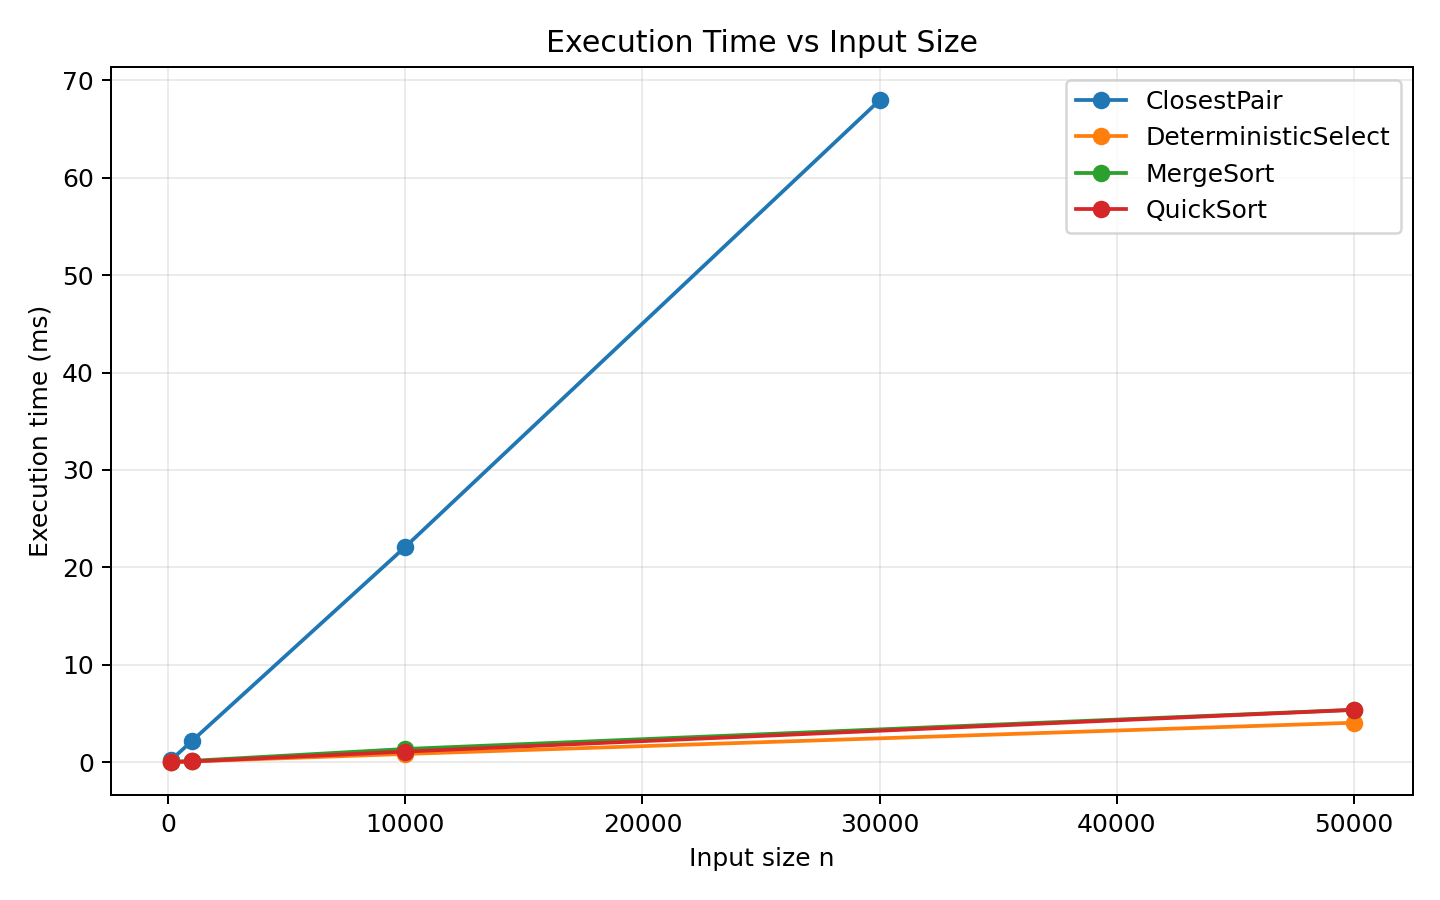
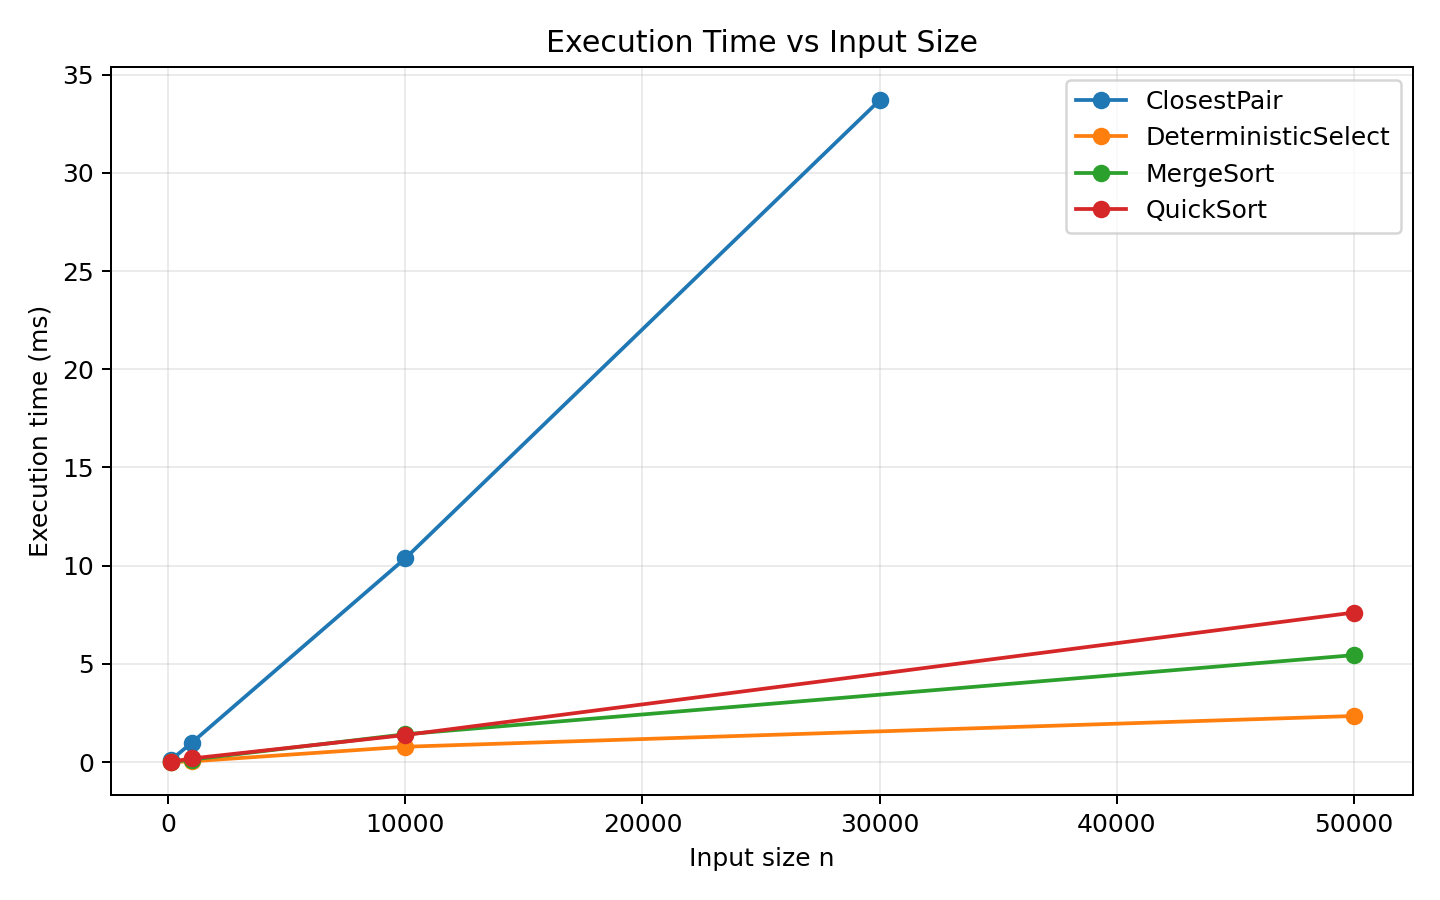
fix: simplify metrics and cover closest edge cases

diff --git a/src/main/java/kz/aitu/daa/assignment1/DeterministicSelector.java b/src/main/java/kz/aitu/daa/assignment1/DeterministicSelector.java
@@ -28,7 +28,7 @@ public final class DeterministicSelector {
         if (left == right) return a[left];
 
         int pivot = medianOfMedians(a, left, right, depth + 1, bounds, metrics);
-        ArrayTools.partition(a, left, right, pivot, bounds, metrics);
+        ArrayTools.partition(a, left, right, pivot, bounds);
         int less = bounds[0], greater = bounds[1];
         if (k < less) return select(a, left, less - 1, k, depth + 1, bounds, metrics);
         if (k > greater) return select(a, greater + 1, right, k, depth + 1, bounds, metrics);
@@ -39,14 +39,14 @@ public final class DeterministicSelector {
                                        int[] bounds, AlgorithmMetrics metrics) {
         int size = right - left + 1;
         if (size <= 5) {
-            ArrayTools.insertionSort(a, left, right, metrics);
+            ArrayTools.insertionSort(a, left, right);
             return a[left + size / 2];
         }
 
         int count = 0;
         for (int start = left; start <= right; start += 5) {
             int end = Math.min(start + 4, right);
-            ArrayTools.insertionSort(a, start, end, metrics);
+            ArrayTools.insertionSort(a, start, end);
             ArrayTools.swap(a, left + count++, (start + end) / 2);
         }
         int middle = left + count / 2;

diff --git a/src/main/java/kz/aitu/daa/assignment1/ArrayTools.java b/src/main/java/kz/aitu/daa/assignment1/ArrayTools.java
@@ -4,15 +4,12 @@ package kz.aitu.daa.assignment1;
 final class ArrayTools {
     private ArrayTools() {}
 
-    static void partition(int[] a, int left, int right, int pivot,
-                          int[] bounds, AlgorithmMetrics metrics) {
+    static void partition(int[] a, int left, int right, int pivot, int[] bounds) {
         int less = left, i = left, greater = right;
         while (i <= greater) {
-            metrics.comparison();
             if (a[i] < pivot) {
                 swap(a, less++, i++);
             } else {
-                metrics.comparison();
                 if (a[i] > pivot) swap(a, i, greater--);
                 else i++;
             }
@@ -21,11 +18,10 @@ final class ArrayTools {
         bounds[1] = greater;
     }
 
-    static void insertionSort(int[] a, int left, int right, AlgorithmMetrics metrics) {
+    static void insertionSort(int[] a, int left, int right) {
         for (int i = left + 1; i <= right; i++) {
             int value = a[i], j = i - 1;
             while (j >= left) {
-                metrics.comparison();
                 if (a[j] <= value) break;
                 a[j + 1] = a[j--];
             }

diff --git a/src/main/java/kz/aitu/daa/assignment1/ClosestPairSolver.java b/src/main/java/kz/aitu/daa/assignment1/ClosestPairSolver.java
@@ -87,7 +87,6 @@ public final class ClosestPairSolver {
                     break;
                 }
 
-                metrics.comparison();
                 Result candidate = result(buffer[i], buffer[j]);
                 if (candidate.distance() < best.distance()) {
                     best = candidate;
@@ -110,7 +109,6 @@ public final class ClosestPairSolver {
         int out = left;
 
         while (i < mid && j < right) {
-            metrics.comparison();
             if (BY_Y.compare(points[i], points[j]) <= 0) {
                 buffer[out++] = points[i++];
             } else {
@@ -134,7 +132,6 @@ public final class ClosestPairSolver {
         Result best = null;
         for (int i = left; i < right; i++) {
             for (int j = i + 1; j < right; j++) {
-                metrics.comparison();
                 Result candidate = result(points[i], points[j]);
                 if (best == null || candidate.distance() < best.distance()) {
                     best = candidate;

diff --git a/src/main/java/kz/aitu/daa/assignment1/MergeSorter.java b/src/main/java/kz/aitu/daa/assignment1/MergeSorter.java
@@ -25,7 +25,7 @@ public final class MergeSorter {
                                   int depth, AlgorithmMetrics metrics) {
         metrics.recursiveCall(depth);
         if (right - left <= CUTOFF) {
-            ArrayTools.insertionSort(a, left, right - 1, metrics);
+            ArrayTools.insertionSort(a, left, right - 1);
             return;
         }
 
@@ -33,7 +33,6 @@ public final class MergeSorter {
         mergeSort(a, buffer, left, mid, depth + 1, metrics);
         mergeSort(a, buffer, mid, right, depth + 1, metrics);
 
-        metrics.comparison();
         if (a[mid - 1] > a[mid]) merge(a, buffer, left, mid, right, metrics);
     }
 
@@ -43,7 +42,6 @@ public final class MergeSorter {
 
         int i = left, j = mid, k = left;
         while (i < mid && j < right) {
-            metrics.comparison();
             a[k++] = buffer[i] <= buffer[j] ? buffer[i++] : buffer[j++];
         }
         while (i < mid) a[k++] = buffer[i++];

diff --git a/src/test/java/kz/aitu/daa/assignment1/ClosestPairSolverTest.java b/src/test/java/kz/aitu/daa/assignment1/ClosestPairSolverTest.java
@@ -1,11 +1,26 @@
 package kz.aitu.daa.assignment1;
 
 import static org.junit.jupiter.api.Assertions.assertEquals;
+import static org.junit.jupiter.api.Assertions.assertThrows;
 
 import java.util.Random;
 import org.junit.jupiter.api.Test;
 
 class ClosestPairSolverTest {
+    @Test
+    void worksForTwoPoints() {
+        Point[] points = {new Point(0, 0), new Point(3, 4)};
+        assertEquals(5.0, ClosestPairSolver.solve(points).distance(), 0.0);
+    }
+
+    @Test
+    void rejectsFewerThanTwoPoints() {
+        assertThrows(IllegalArgumentException.class,
+                () -> ClosestPairSolver.solve(new Point[0]));
+        assertThrows(IllegalArgumentException.class,
+                () -> ClosestPairSolver.solve(new Point[]{new Point(1, 1)}));
+    }
+
     @Test
     void findsSimpleClosestPair() {
         Point[] points = {

diff --git a/src/main/java/kz/aitu/daa/assignment1/Experiment.java b/src/main/java/kz/aitu/daa/assignment1/Experiment.java
@@ -27,7 +27,7 @@ public final class Experiment {
         warmUpJvm();
 
         List<String> rows = new ArrayList<>();
-        rows.add("algorithm,input_type,n,time_ns,max_recursion_depth,comparisons,recursive_calls");
+        rows.add("algorithm,input_type,n,time_ns,max_recursion_depth,recursive_calls");
 
         for (int n : SORT_SIZES) {
             for (String type : INPUT_TYPES) {
@@ -134,7 +134,6 @@ public final class Experiment {
                 Integer.toString(n),
                 Long.toString(result.timeNs()),
                 Integer.toString(metrics.getMaxRecursionDepth()),
-                Long.toString(metrics.getComparisons()),
                 Long.toString(metrics.getRecursiveCalls()));
     }
 

diff --git a/src/main/java/kz/aitu/daa/assignment1/AlgorithmMetrics.java b/src/main/java/kz/aitu/daa/assignment1/AlgorithmMetrics.java
@@ -2,18 +2,14 @@ package kz.aitu.daa.assignment1;
 
 /** Mutable counters collected during one algorithm run. */
 public final class AlgorithmMetrics {
-    private long comparisons;
     private long recursiveCalls;
     private int maxRecursionDepth;
-
-    public void comparison() { comparisons++; }
 
     public void recursiveCall(int depth) {
         recursiveCalls++;
         maxRecursionDepth = Math.max(maxRecursionDepth, depth);
     }
 
-    public long getComparisons() { return comparisons; }
     public long getRecursiveCalls() { return recursiveCalls; }
     public int getMaxRecursionDepth() { return maxRecursionDepth; }
 }

diff --git a/src/main/java/kz/aitu/daa/assignment1/QuickSorter.java b/src/main/java/kz/aitu/daa/assignment1/QuickSorter.java
@@ -29,7 +29,7 @@ public final class QuickSorter {
         metrics.recursiveCall(depth);
         while (left < right) {
             int pivot = a[left + random.nextInt(right - left + 1)];
-            ArrayTools.partition(a, left, right, pivot, bounds, metrics);
+            ArrayTools.partition(a, left, right, pivot, bounds);
             int less = bounds[0], greater = bounds[1];
 
             if (less - left < right - greater) {

diff --git a/README.md b/README.md
@@ -257,7 +257,7 @@ This exceeds the required minimum of 100 random tests.
 
 ## Closest Pair
 
-For small random datasets, the divide-and-conquer answer is compared with the included `O(n²)` brute-force implementation. A separate test checks the maximum required small-dataset size `n = 2,000`. Duplicate points are also tested and must produce distance `0`.
+For small random datasets, the divide-and-conquer answer is compared with the included `O(n²)` brute-force implementation. A separate test checks the maximum required size `n = 2,000`. Tests also cover two points, duplicate points, and invalid inputs with fewer than two points.
 
 # Experimental Method
 
@@ -271,7 +271,6 @@ Recorded metrics:
 
 - execution time in nanoseconds;
 - maximum recursion depth;
-- comparisons;
 - recursive calls.
 
 All raw values are stored in [`results/results.csv`](results/results.csv).
@@ -282,10 +281,10 @@ The table below shows the random-input measurements from the included CSV. Times
 
 | Algorithm | n=100 | n=1,000 | n=10,000 | Largest tested n |
 |---|---:|---:|---:|---:|
-| MergeSort | 0.005 ms | 0.125 ms | 1.340 ms | 5.367 ms at 50,000 |
-| QuickSort | 0.003 ms | 0.058 ms | 1.075 ms | 5.355 ms at 50,000 |
-| Deterministic Select | 0.003 ms | 0.064 ms | 0.831 ms | 4.039 ms at 50,000 |
-| Closest Pair | 0.167 ms | 2.161 ms | 22.100 ms | 67.958 ms at 30,000 |
+| MergeSort | 0.007 ms | 0.128 ms | 1.415 ms | 5.443 ms at 50,000 |
+| QuickSort | 0.014 ms | 0.183 ms | 1.377 ms | 7.611 ms at 50,000 |
+| Deterministic Select | 0.001 ms | 0.037 ms | 0.779 ms | 2.345 ms at 50,000 |
+| Closest Pair | 0.092 ms | 0.990 ms | 10.374 ms | 33.694 ms at 30,000 |
 
 ## Recursion-depth results on random inputs
 
